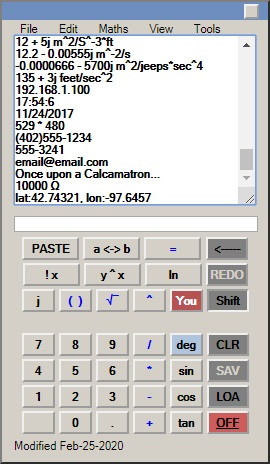
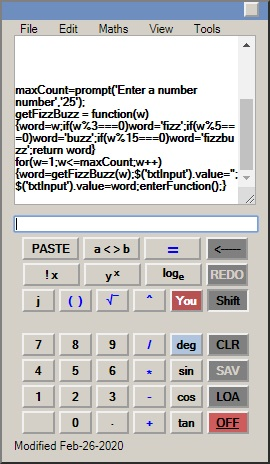
Styling for Internet button, new screenshots for READ.ME

diff --git a/index.html b/index.html
@@ -189,9 +189,9 @@
           <input type="button" id="btnPI" class="btn-small" value="&#182;"/>
           <input type="button" id="btnModulus" class="btn-small" value="%"/>
           <input type="button" id="btnSign" class="btn-small" value="±"/>
-          <button type="button" id="btnGo" class="btn-small">Go</button>
           <!-- <button type="button" id="btnGo" class="btn-small"><image src="images/you-tube.png"/></button> -->
           <!-- <button type="button" id="btnGo" class="btn-small"><image src="images/google.png"/></button> -->
+          <button type="button" id="btnGo" class="btn-small"><span class="color-blue">G</span><span class="color-red">o</span></button>
           <input type="button" id="btnShift" class="btn-med" value="Shift"/>
           <br/>
           <br/>

diff --git a/scripts/index.js b/scripts/index.js
@@ -14,7 +14,7 @@ var stackSize = 14;
 var stackFocus = false;
 var shifted = false;
 var fixDecimal = -1;
-var variable = '20:28:47';
+var variable = '21:25:19';
 
 function NumberObject(soul, realPart, units, imaginary, timeStamp) {
 
@@ -494,8 +494,8 @@ function btn_shift() {
     $('btnModulus').value = '%';
     $('btnSign').style.color = '#000000';
     $('btnSign').value = '±';
-    $('btnGo').style.backgroundColor = '#4285F4';
-    $('btnGo').innerHTML = 'Go';
+    $('btnGo').style.backgroundColor = '#FBFBFB';
+    $('btnGo').innerHTML = '<span class="color-blue">G</span><span class="color-red">o</span>';
     $('btnShift').style.backgroundColor = '#D4D0C8';
     $('btnShift').style.borderStyle = 'outset';
     $('btnDivide').style.color = '#000000';

diff --git a/styles/styles.css b/styles/styles.css
@@ -122,7 +122,7 @@ input, button {
     background-color: #808080;
 }
 #btnGo {
-    background-color: #4285F4;
+    background-color: #FBFBFB;
     color: #FFFFFF;
 }
 #btnAngle {
@@ -166,6 +166,12 @@ input, button {
 }
 .visible {
     display: inline;
+}
+.color-blue {
+    color: #4285F4;
+}
+.color-red {
+    color: red;
 }
 
 /***** Menu ***************/
